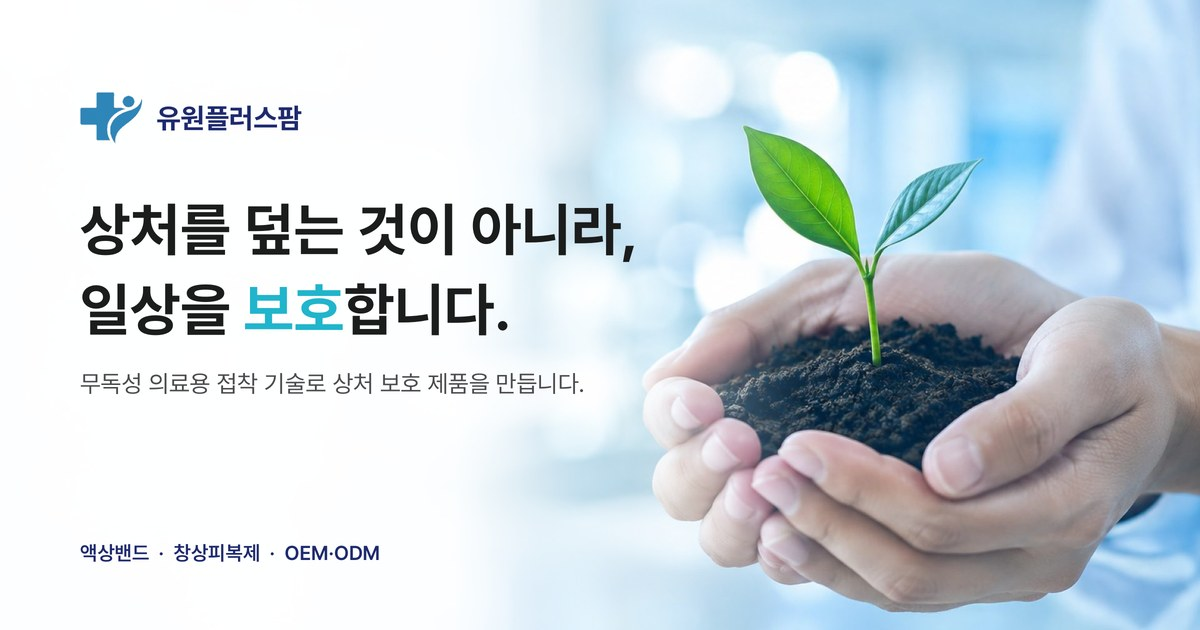
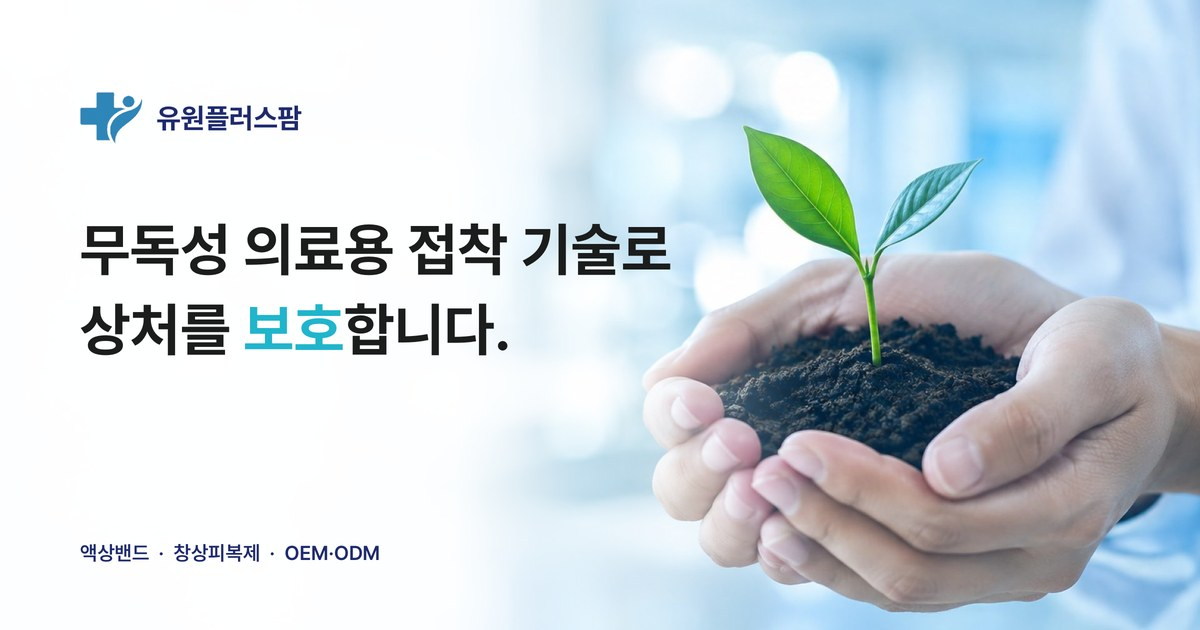
OG 이미지 카피를 '무독성 의료용 접착 기술로 상처를 보호합니다'로 교체
Claude-Session: https://claude.ai/code/session_01DnsUnce65EP67mZiwTHyf4

Changed region(s): [[0.0617, 0.3016, 0.555, 0.6333]]

diff --git a/index.html b/index.html
@@ -16,7 +16,7 @@
 <meta property="og:image" content="https://uwpluspharm.com/images/common/og-image.jpg">
 <meta property="og:image:width" content="1200">
 <meta property="og:image:height" content="630">
-<meta property="og:image:alt" content="유원플러스팜 — 상처를 덮는 것이 아니라, 일상을 보호합니다.">
+<meta property="og:image:alt" content="유원플러스팜 — 무독성 의료용 접착 기술로 상처를 보호합니다.">
 <meta name="twitter:card" content="summary_large_image">
 <link rel="stylesheet" href="https://cdn.jsdelivr.net/gh/orioncactus/pretendard@v1.3.9/dist/web/variable/pretendardvariable-dynamic-subset.min.css">
 <link rel="stylesheet" href="https://cdn.jsdelivr.net/npm/swiper@11/swiper-bundle.min.css">

diff --git a/brochure.html b/brochure.html
@@ -16,7 +16,7 @@
 <meta property="og:image" content="https://uwpluspharm.com/images/common/og-image.jpg">
 <meta property="og:image:width" content="1200">
 <meta property="og:image:height" content="630">
-<meta property="og:image:alt" content="유원플러스팜 — 상처를 덮는 것이 아니라, 일상을 보호합니다.">
+<meta property="og:image:alt" content="유원플러스팜 — 무독성 의료용 접착 기술로 상처를 보호합니다.">
 <meta name="twitter:card" content="summary_large_image">
 <link rel="stylesheet" href="https://cdn.jsdelivr.net/gh/orioncactus/pretendard@v1.3.9/dist/web/variable/pretendardvariable-dynamic-subset.min.css">
 <link rel="stylesheet" href="css/tokens.css">

diff --git a/business-fire.html b/business-fire.html
@@ -16,7 +16,7 @@
 <meta property="og:image" content="https://uwpluspharm.com/images/common/og-image.jpg">
 <meta property="og:image:width" content="1200">
 <meta property="og:image:height" content="630">
-<meta property="og:image:alt" content="유원플러스팜 — 상처를 덮는 것이 아니라, 일상을 보호합니다.">
+<meta property="og:image:alt" content="유원플러스팜 — 무독성 의료용 접착 기술로 상처를 보호합니다.">
 <meta name="twitter:card" content="summary_large_image">
 <link rel="stylesheet" href="https://cdn.jsdelivr.net/gh/orioncactus/pretendard@v1.3.9/dist/web/variable/pretendardvariable-dynamic-subset.min.css">
 <link rel="stylesheet" href="css/tokens.css">

diff --git a/business-liquid.html b/business-liquid.html
@@ -16,7 +16,7 @@
 <meta property="og:image" content="https://uwpluspharm.com/images/common/og-image.jpg">
 <meta property="og:image:width" content="1200">
 <meta property="og:image:height" content="630">
-<meta property="og:image:alt" content="유원플러스팜 — 상처를 덮는 것이 아니라, 일상을 보호합니다.">
+<meta property="og:image:alt" content="유원플러스팜 — 무독성 의료용 접착 기술로 상처를 보호합니다.">
 <meta name="twitter:card" content="summary_large_image">
 <link rel="stylesheet" href="https://cdn.jsdelivr.net/gh/orioncactus/pretendard@v1.3.9/dist/web/variable/pretendardvariable-dynamic-subset.min.css">
 <link rel="stylesheet" href="css/tokens.css">

diff --git a/business-wound.html b/business-wound.html
@@ -16,7 +16,7 @@
 <meta property="og:image" content="https://uwpluspharm.com/images/common/og-image.jpg">
 <meta property="og:image:width" content="1200">
 <meta property="og:image:height" content="630">
-<meta property="og:image:alt" content="유원플러스팜 — 상처를 덮는 것이 아니라, 일상을 보호합니다.">
+<meta property="og:image:alt" content="유원플러스팜 — 무독성 의료용 접착 기술로 상처를 보호합니다.">
 <meta name="twitter:card" content="summary_large_image">
 <link rel="stylesheet" href="https://cdn.jsdelivr.net/gh/orioncactus/pretendard@v1.3.9/dist/web/variable/pretendardvariable-dynamic-subset.min.css">
 <link rel="stylesheet" href="css/tokens.css">

diff --git a/cert.html b/cert.html
@@ -16,7 +16,7 @@
 <meta property="og:image" content="https://uwpluspharm.com/images/common/og-image.jpg">
 <meta property="og:image:width" content="1200">
 <meta property="og:image:height" content="630">
-<meta property="og:image:alt" content="유원플러스팜 — 상처를 덮는 것이 아니라, 일상을 보호합니다.">
+<meta property="og:image:alt" content="유원플러스팜 — 무독성 의료용 접착 기술로 상처를 보호합니다.">
 <meta name="twitter:card" content="summary_large_image">
 <link rel="stylesheet" href="https://cdn.jsdelivr.net/gh/orioncactus/pretendard@v1.3.9/dist/web/variable/pretendardvariable-dynamic-subset.min.css">
 <link rel="stylesheet" href="css/tokens.css">

diff --git a/company.html b/company.html
@@ -16,7 +16,7 @@
 <meta property="og:image" content="https://uwpluspharm.com/images/common/og-image.jpg">
 <meta property="og:image:width" content="1200">
 <meta property="og:image:height" content="630">
-<meta property="og:image:alt" content="유원플러스팜 — 상처를 덮는 것이 아니라, 일상을 보호합니다.">
+<meta property="og:image:alt" content="유원플러스팜 — 무독성 의료용 접착 기술로 상처를 보호합니다.">
 <meta name="twitter:card" content="summary_large_image">
 <link rel="stylesheet" href="https://cdn.jsdelivr.net/gh/orioncactus/pretendard@v1.3.9/dist/web/variable/pretendardvariable-dynamic-subset.min.css">
 <link rel="stylesheet" href="css/tokens.css">

diff --git a/contact.html b/contact.html
@@ -16,7 +16,7 @@
 <meta property="og:image" content="https://uwpluspharm.com/images/common/og-image.jpg">
 <meta property="og:image:width" content="1200">
 <meta property="og:image:height" content="630">
-<meta property="og:image:alt" content="유원플러스팜 — 상처를 덮는 것이 아니라, 일상을 보호합니다.">
+<meta property="og:image:alt" content="유원플러스팜 — 무독성 의료용 접착 기술로 상처를 보호합니다.">
 <meta name="twitter:card" content="summary_large_image">
 <link rel="stylesheet" href="https://cdn.jsdelivr.net/gh/orioncactus/pretendard@v1.3.9/dist/web/variable/pretendardvariable-dynamic-subset.min.css">
 <link rel="stylesheet" href="css/tokens.css">

diff --git a/location.html b/location.html
@@ -16,7 +16,7 @@
 <meta property="og:image" content="https://uwpluspharm.com/images/common/og-image.jpg">
 <meta property="og:image:width" content="1200">
 <meta property="og:image:height" content="630">
-<meta property="og:image:alt" content="유원플러스팜 — 상처를 덮는 것이 아니라, 일상을 보호합니다.">
+<meta property="og:image:alt" content="유원플러스팜 — 무독성 의료용 접착 기술로 상처를 보호합니다.">
 <meta name="twitter:card" content="summary_large_image">
 <link rel="stylesheet" href="https://cdn.jsdelivr.net/gh/orioncactus/pretendard@v1.3.9/dist/web/variable/pretendardvariable-dynamic-subset.min.css">
 <link rel="stylesheet" href="css/tokens.css">

diff --git a/product-view.html b/product-view.html
@@ -16,7 +16,7 @@
 <meta property="og:image" content="https://uwpluspharm.com/images/common/og-image.jpg">
 <meta property="og:image:width" content="1200">
 <meta property="og:image:height" content="630">
-<meta property="og:image:alt" content="유원플러스팜 — 상처를 덮는 것이 아니라, 일상을 보호합니다.">
+<meta property="og:image:alt" content="유원플러스팜 — 무독성 의료용 접착 기술로 상처를 보호합니다.">
 <meta name="twitter:card" content="summary_large_image">
 <link rel="stylesheet" href="https://cdn.jsdelivr.net/gh/orioncactus/pretendard@v1.3.9/dist/web/variable/pretendardvariable-dynamic-subset.min.css">
 <link rel="stylesheet" href="css/tokens.css">

diff --git a/products.html b/products.html
@@ -16,7 +16,7 @@
 <meta property="og:image" content="https://uwpluspharm.com/images/common/og-image.jpg">
 <meta property="og:image:width" content="1200">
 <meta property="og:image:height" content="630">
-<meta property="og:image:alt" content="유원플러스팜 — 상처를 덮는 것이 아니라, 일상을 보호합니다.">
+<meta property="og:image:alt" content="유원플러스팜 — 무독성 의료용 접착 기술로 상처를 보호합니다.">
 <meta name="twitter:card" content="summary_large_image">
 <link rel="stylesheet" href="https://cdn.jsdelivr.net/gh/orioncactus/pretendard@v1.3.9/dist/web/variable/pretendardvariable-dynamic-subset.min.css">
 <link rel="stylesheet" href="css/tokens.css">

diff --git a/_src/build.py b/_src/build.py
@@ -115,7 +115,7 @@ TPL = '''<!DOCTYPE html>
 <meta property="og:image" content="{site}/images/common/og-image.jpg">
 <meta property="og:image:width" content="1200">
 <meta property="og:image:height" content="630">
-<meta property="og:image:alt" content="유원플러스팜 — 상처를 덮는 것이 아니라, 일상을 보호합니다.">
+<meta property="og:image:alt" content="유원플러스팜 — 무독성 의료용 접착 기술로 상처를 보호합니다.">
 <meta name="twitter:card" content="summary_large_image">
 <link rel="stylesheet" href="https://cdn.jsdelivr.net/gh/orioncactus/pretendard@v1.3.9/dist/web/variable/pretendardvariable-dynamic-subset.min.css">
 {vcss}<link rel="stylesheet" href="css/tokens.css">
